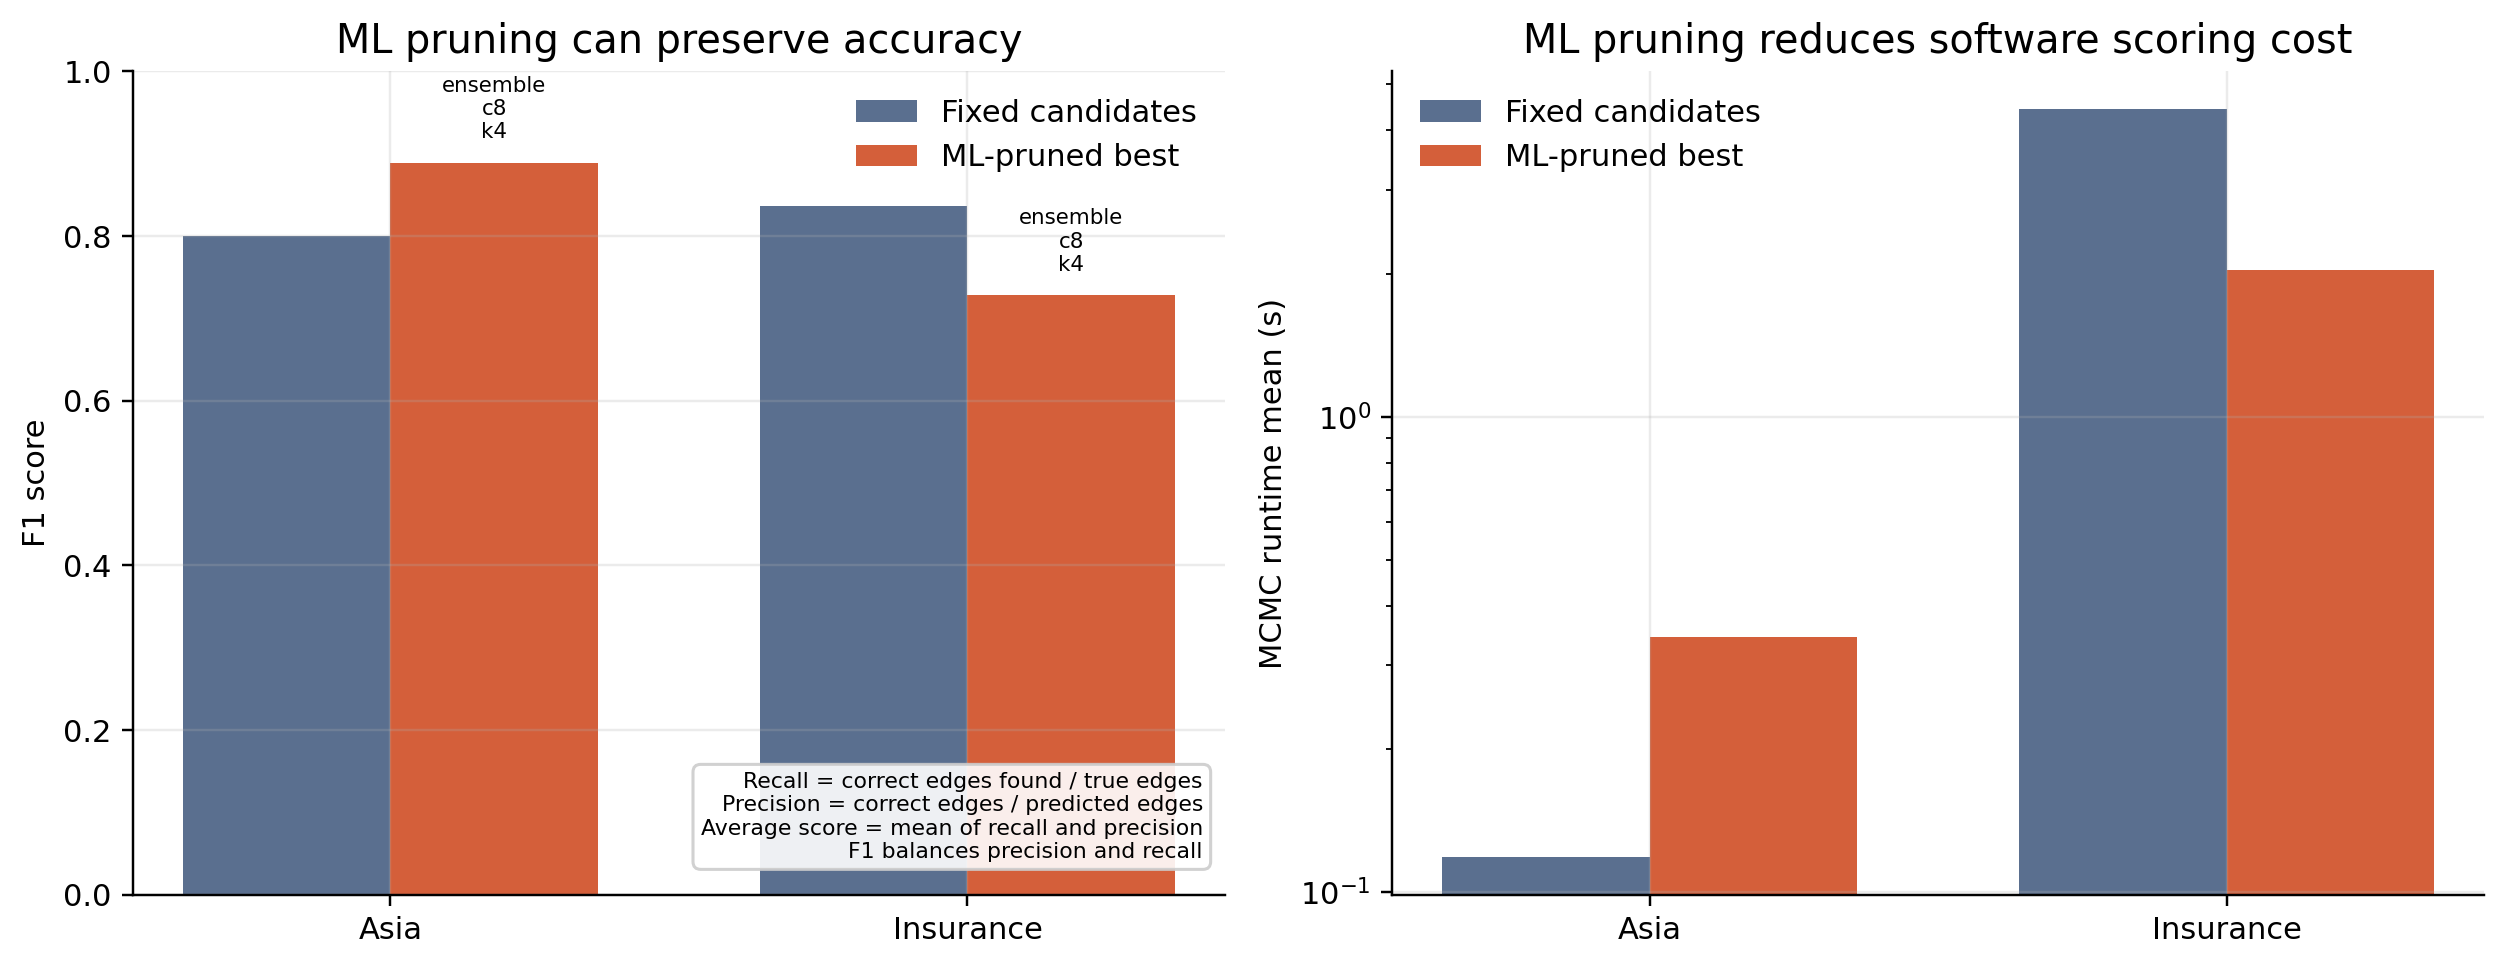
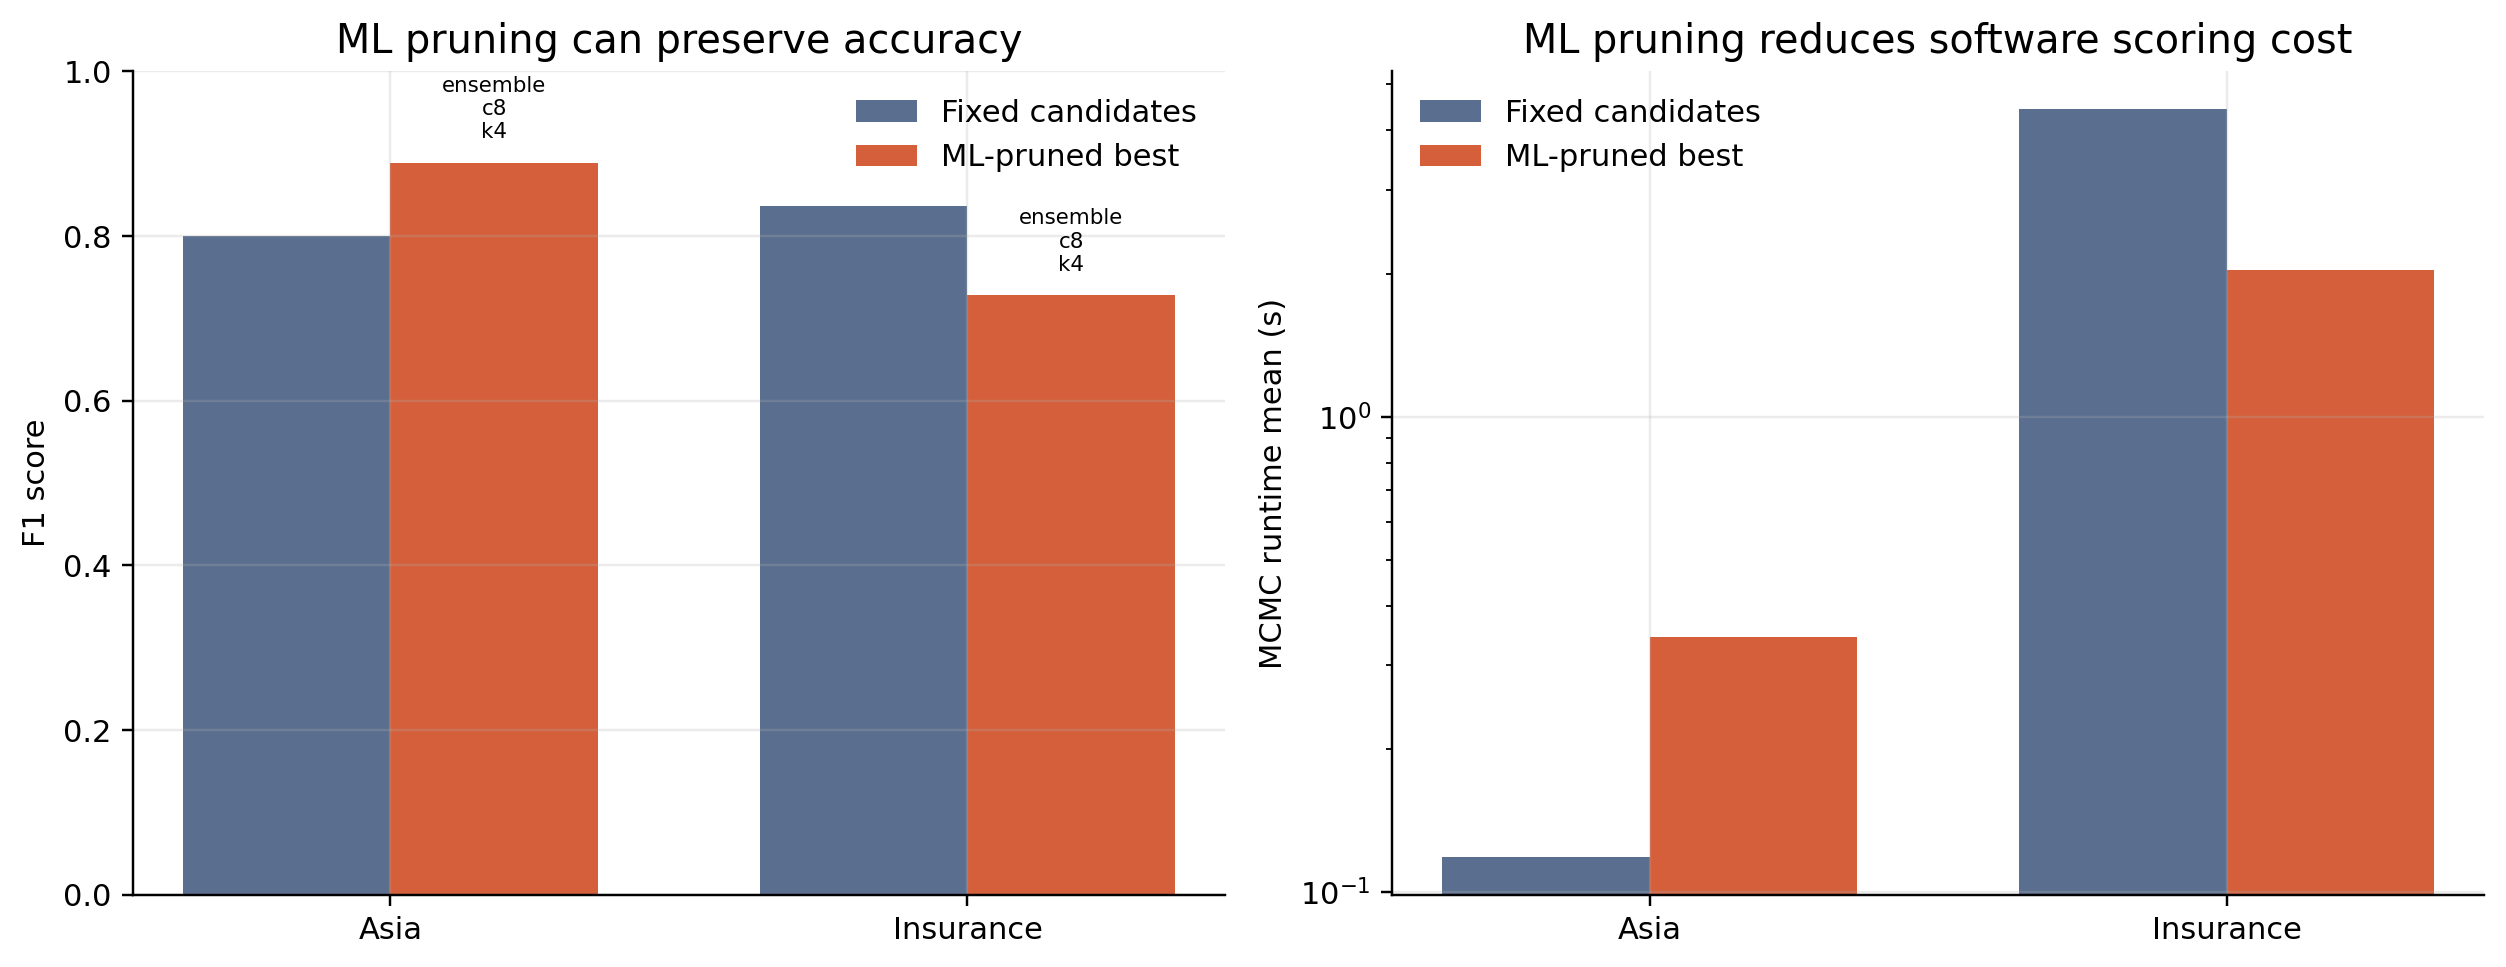
Finishing touches

Changed region(s): [[0.2801, 0.7756, 0.498, 0.8997]]

diff --git a/scripts/generate_ece5760_figures.py b/scripts/generate_ece5760_figures.py
@@ -76,34 +76,6 @@ def savefig(name):
     return path
 
 
-def add_score_key(ax, *, loc="lower right", include_f1=False):
-    lines = [
-        "Recall = correct edges found / true edges",
-        "Precision = correct edges / predicted edges",
-        "Average score = mean of recall and precision",
-    ]
-    if include_f1:
-        lines.append("F1 balances precision and recall")
-
-    anchors = {
-        "lower right": (0.98, 0.04, "right", "bottom"),
-        "lower left": (0.02, 0.04, "left", "bottom"),
-        "upper right": (0.98, 0.96, "right", "top"),
-        "upper left": (0.02, 0.96, "left", "top"),
-    }
-    x, y, ha, va = anchors[loc]
-    ax.text(
-        x,
-        y,
-        "\n".join(lines),
-        transform=ax.transAxes,
-        ha=ha,
-        va=va,
-        fontsize=7.2,
-        bbox={"boxstyle": "round,pad=0.35", "facecolor": "white", "edgecolor": "#cccccc", "alpha": 0.9},
-    )
-
-
 def load_timing():
     return pd.read_excel(WORKBOOK, sheet_name="Final Project", header=None)
 
@@ -172,7 +144,6 @@ def plot_insurance_runtime_and_score(timing):
     ax.set_xlabel("MCMC iterations")
     ax.set_ylabel("Average score")
     ax.set_title("Insurance score convergence")
-    add_score_key(ax, loc="lower right")
     ax.legend()
 
     return savefig("insurance_runtime_score_convergence.png")
@@ -212,7 +183,6 @@ def plot_parallelization_convergence(timing):
     ax.set_xlabel("MCMC iterations")
     ax.set_ylabel("Average score")
     ax.set_title("Parallelization improves early convergence, then converges")
-    add_score_key(ax, loc="lower right")
     ax.legend(ncol=2)
     return savefig("parallel_versions_score_convergence.png")
 
@@ -226,11 +196,24 @@ def plot_parallel_score_components(timing):
     ax.plot(sub["iterations"], sub["score3"], "^-", label="Average score", color="#d45f3a", linewidth=2.3)
     ax.set_xscale("log")
     ax.set_ylim(0, 1.0)
+    ax.set_xlim(sub["iterations"].min() * 0.8, sub["iterations"].max() * 1.55)
     ax.set_xlabel("MCMC iterations")
     ax.set_ylabel("Metric value")
     ax.set_title("Recall, precision, and average for 4-way parallel Insurance run")
-    add_score_key(ax, loc="lower right")
-    ax.legend()
+    for column, label, color, yoff in [
+        ("score1", "Recall", "#5a6f8f", 0.03),
+        ("score2", "Precision", "#44947b", 0.0),
+        ("score3", "Average score", "#d45f3a", -0.03),
+    ]:
+        ax.annotate(
+            label,
+            xy=(sub["iterations"].iloc[-1], sub[column].iloc[-1]),
+            xytext=(8, yoff * 100),
+            textcoords="offset points",
+            color=color,
+            fontsize=10,
+            va="center",
+        )
     return savefig("insurance_score_components_4way.png")
 
 
@@ -289,13 +272,11 @@ def plot_ml_tradeoff(timing):
     axes[0].set_ylabel("F1 score")
     axes[0].set_title("Accuracy/runtime tradeoff")
     axes[0].text(0.02, 0.03, "Bubble area scales with table size", transform=axes[0].transAxes, fontsize=8)
-    add_score_key(axes[0], loc="lower right", include_f1=True)
 
     axes[1].set_xscale("log")
     axes[1].set_xlabel("Score table size (bytes)")
     axes[1].set_ylabel("F1 score")
     axes[1].set_title("Accuracy/table-size tradeoff")
-    add_score_key(axes[1], loc="upper left", include_f1=True)
 
     legend_handles = [
         plt.Line2D([0], [0], marker="o", color="w", label="Asia", markerfacecolor="#444", markersize=8),
@@ -331,7 +312,6 @@ def plot_ml_vs_fixed_software(timing):
     axes[0].set_ylim(0, 1.0)
     axes[0].set_ylabel("F1 score")
     axes[0].set_title("ML pruning can preserve accuracy")
-    add_score_key(axes[0], loc="lower right", include_f1=True)
     axes[0].legend()
 
     fixed_runtime = [fixed.loc[d, "mcmc_sec_mean"] for d in datasets]

diff --git a/_pages/results.md b/_pages/results.md
@@ -33,23 +33,17 @@ The score-component plot separates recall, precision, and average score for the 
 
 {% include figure.liquid path="assets/img/results/ml_vs_fixed_software.png" class="img-fluid rounded z-depth-1" alt="ML-pruned candidates versus fixed candidate baseline" %}
 
-The ML-pruned candidate experiment compares the fixed candidate strategy against the best non-fixed strategy in the software measurements. On Asia, ML pruning slightly improved F1 while reducing MCMC runtime. On Insurance, the fixed full-candidate run still had the best F1, but ML pruning greatly reduced runtime and table size. This is a tradeoff rather than a strict win: learned candidate pruning can make scoring much cheaper, but aggressive pruning can remove useful parent sets on larger graphs.
+The ML-pruned candidate experiment compares the fixed candidate strategy against the best non-fixed strategy in the software-only measurements. These results were generated by the software baseline and were not loaded into the FPGA flow for the final hardware measurements. On Asia, ML pruning slightly improved F1 while reducing MCMC runtime. On Insurance, the fixed full-candidate run still had the best F1, but ML pruning greatly reduced runtime and table size. This is a tradeoff rather than a strict win: learned candidate pruning can make scoring much cheaper, but aggressive pruning can remove useful parent sets on larger graphs.
 
 {% include figure.liquid path="assets/img/results/ml_pruning_accuracy_tradeoff.png" class="img-fluid rounded z-depth-1" alt="Accuracy runtime and table size tradeoffs for ML pruning" %}
 
-The broader tradeoff plot shows the same pattern. Smaller ML-pruned tables run faster and use less memory, but their accuracy depends on whether the retained parent sets contain the useful edges. For a small graph like Asia, pruning can preserve or improve accuracy. For the larger Insurance graph, the best accuracy came from a much larger candidate table.
+The broader tradeoff plot shows the same pattern. Smaller ML-pruned tables run faster and use less memory, but their accuracy depends on whether the retained parent sets contain the useful edges. For a small graph like Asia, pruning can preserve or improve accuracy. For the larger Insurance graph, the best accuracy came from a much larger candidate table. To add this optimization to the FPGA path, the loader/preprocessing script would need to be changed so it writes the ML-pruned candidate tables, rather than the fixed candidate tables, into the binary format consumed by the HPS and M10K initialization flow.
 
 ## Safety
 
 The design does not directly actuate external hardware and does not create a physical safety hazard beyond normal DE1-SoC usage. Safety enforcement is mainly through bounded memory access, fixed table sizes, deterministic reset behavior, and validation against software reference outputs.
 
 The main safety constraints are correctness and bounded operation. The HPS limits the number of active nodes and candidate parent sets before writing tables to FPGA memory. The FPGA uses fixed-size BRAM tables and sentinel masks to terminate candidate lists, which avoids unbounded traversal. Reset and start signals are controlled explicitly through memory-mapped registers.
-
-## Usability
-
-The user workflow is split into preprocessing, hardware execution, and result interpretation. The HPS loads the precomputed score table, configures the FPGA with parameters such as seed and iteration count, starts the sampler, and then reads back the best score and topological order. The final order is converted back into a graph in software and displayed through the VGA demo.
-
-Loading a dataset from bnlearn is fairly straightforward because the preprocessing flow can convert a known Bayesian-network dataset into the local parent-set and score tables needed by the hardware. The harder part is getting both high accuracy and low latency. MCMC is a limiting technique by itself because it depends on enough random proposals to explore the order space well. If the iteration budget is small, the sampler may return quickly but miss better network structures; if the iteration budget is large, accuracy improves but latency rises. In practice, usability depends on tuning the candidate-parent limit, score-table size, lookup-table fidelity, and number of parallel chains for the dataset being tested.
 
 ## Resource Utilization
 
@@ -85,6 +79,12 @@ The Quartus Chip Planner area views below show how each solver configuration map
     <p class="caption">4-chain solver, 16b x512 LUT</p>
   </div>
 </div>
+
+## Usability
+
+The user workflow is split into preprocessing, hardware execution, and result interpretation. The HPS loads the precomputed score table, configures the FPGA with parameters such as seed and iteration count, starts the sampler, and then reads back the best score and topological order. The final order is converted back into a graph in software and displayed through the VGA demo.
+
+Loading a dataset from bnlearn is fairly straightforward because the preprocessing flow can convert a known Bayesian-network dataset into the local parent-set and score tables needed by the hardware. The harder part is getting both high accuracy and low latency. MCMC is a limiting technique by itself because it depends on enough random proposals to explore the order space well. If the iteration budget is small, the sampler may return quickly but miss better network structures; if the iteration budget is large, accuracy improves but latency rises. In practice, usability depends on tuning the candidate-parent limit, score-table size, lookup-table fidelity, and number of parallel chains for the dataset being tested.
 
 ## Conclusions
 

diff --git a/_pages/program-hardware-design.md b/_pages/program-hardware-design.md
@@ -79,7 +79,17 @@ Another feature of our LFSR is that because the number of active nodes can vary,
 
 ### Log-Add LUT
 
-The log-sum-exp function, $\log(e^a + e^b)$, is heavily utilized for accumulating the BDeu scores of multiple compatible parent sets. Doing this natively with floating-point exponents and logarithms in hardware is prohibitively expensive in terms of logic elements and routing complexity. To bypass this, the `log_add` module simplifies the math using the identity: $\log(e^a + e^b) = \max(a, b) + \log(1 + e^{-|a - b|})$.
+The log-sum-exp function is heavily utilized for accumulating the BDeu scores of multiple compatible parent sets:
+
+$$
+\operatorname{logadd}(a, b) = \log(e^a + e^b)
+$$
+
+Doing this natively with floating-point exponents and logarithms in hardware is prohibitively expensive in terms of logic elements and routing complexity. To bypass this, the `log_add` module rewrites the operation as:
+
+$$
+\operatorname{logadd}(a, b) = \max(a, b) + \log\left(1 + e^{-|a-b|}\right)
+$$
 
 This approach converts the complex mathematics to a small, bounded fractional addition. The module calculates this using a 2-stage pipeline and a precomputed lookup table (LUT) based on Q16.16 fixed-point arithmetic.
 
@@ -89,7 +99,13 @@ We chose to pipeline as the M10K BRAM blocks use synchronous reads. Without a pi
 
 The choice of using 32-bit fixed-point as our data type is motivated by the fact that it eliminates the need for floating-point IP cores, reducing DSP block utilization. The Q16.16 format (1 signed bit, 15 integer bits, 16 fractional bits) was chosen as it is well balanced for our application. A 16-bit integer portion allows for ranges between -32,768 and +32,767, and since BDeu scores are log-likelihoods that accumulate over 32 nodes, this range prevents overflow during the MCMC score summations. As for the fractional bits, 16 bits of fractional precision yields a resolution of roughly $0.000015$, which provides enough precision to differentiate between competing candidate parent sets. Furthermore, a 32-bit total word length aligns well with a 32-bit unsigned integer in C, simplifying data transfer from the HPS.
 
-As for the M10K, we initially utilized a 1024-word by 32-bit LUT. However, because each M10K block in the FPGA holds roughly 10 kilobits, a 32-kilobit LUT would require at least 4 M10K blocks per node scorer. With 32 parallel scorers, we decided to optimize the area by reducing our LUT depth, eventually settling with a 512 word by 16 bit design. Because the $\log(1 + e^{-x})$ term evaluates to a maximum of $\approx 0.693$ (when $x = 0$), it only occupies the fractional portion of the Q16.16 word. Thus, by storing only the 16 fractional bits, the LUT size shrinks to 8,192 bits, allowing it to fit into a single M10K block per scorer without losing accuracy.
+As for the M10K, we initially utilized a 1024-word by 32-bit LUT. However, because each M10K block in the FPGA holds roughly 10 kilobits, a 32-kilobit LUT would require at least 4 M10K blocks per node scorer. With 32 parallel scorers, we decided to optimize the area by reducing our LUT depth, eventually settling with a 512-word by 16-bit design. Because the correction term
+
+$$
+\log(1 + e^{-x})
+$$
+
+has a maximum value of approximately 0.693 when \(x = 0\), it only occupies the fractional portion of the Q16.16 word. Thus, by storing only the 16 fractional bits, the LUT size shrinks to 8,192 bits, allowing it to fit into a single M10K block per scorer without losing accuracy.
 
 ### Node Scorer
 

diff --git a/_pages/high-level-design.md b/_pages/high-level-design.md
@@ -21,8 +21,6 @@ The project idea came from the observation that Bayesian-network structure learn
 
 The acceleration target is the inner scoring loop of an MCMC sampler over topological orderings. Instead of directly exploring individual graph structures, the sampler explores node orders. For each proposed order, the system scores the parent sets that are compatible with that order and then applies the Metropolis-Hastings acceptance rule.
 
-TODO: Add exact sources for the project idea, papers, lecture notes, codebases, and prior designs.
-
 ## Bayesian Networks
 
 A Bayesian network is a probabilistic graphical model represented by a directed acyclic graph (DAG). Each node represents a random variable, and each directed edge represents a conditional dependence. The graph structure lets the joint probability distribution factor into smaller conditional probability terms:
@@ -61,19 +59,19 @@ The acceptance rule is based on the Metropolis-Hastings algorithm. Better propos
 
 The scoring path works in log space to avoid underflow from very small probabilities and to replace multiplication with addition. A key accumulation operation is:
 
-```text
-node_score = node_score + log(1 + exp(local_score - node_score))
-```
+$$
+\mathrm{node\_score}_{new}
+= \mathrm{node\_score}_{old}
++ \log\left(1 + e^{\mathrm{local\_score} - \mathrm{node\_score}_{old}}\right)
+$$
 
 In hardware, the non-linear `log(1 + exp(x))` term can be approximated with a small lookup table and piecewise behavior. Large negative inputs contribute approximately zero, and large positive inputs approximate the identity function.
 
 | Input range | Approximation |
 | --- | --- |
-| Large negative `x` | `log(1 + exp(x)) ~= 0` |
+| Large negative `x` | $\log(1 + e^x) \approx 0$ |
 | Near zero `x` | lookup-table value |
-| Large positive `x` | `log(1 + exp(x)) ~= x` |
-
-TODO: Add the final posterior-order formula and define each term.
+| Large positive `x` | $\log(1 + e^x) \approx x$ |
 
 ## Why the Math Maps to Hardware
 
